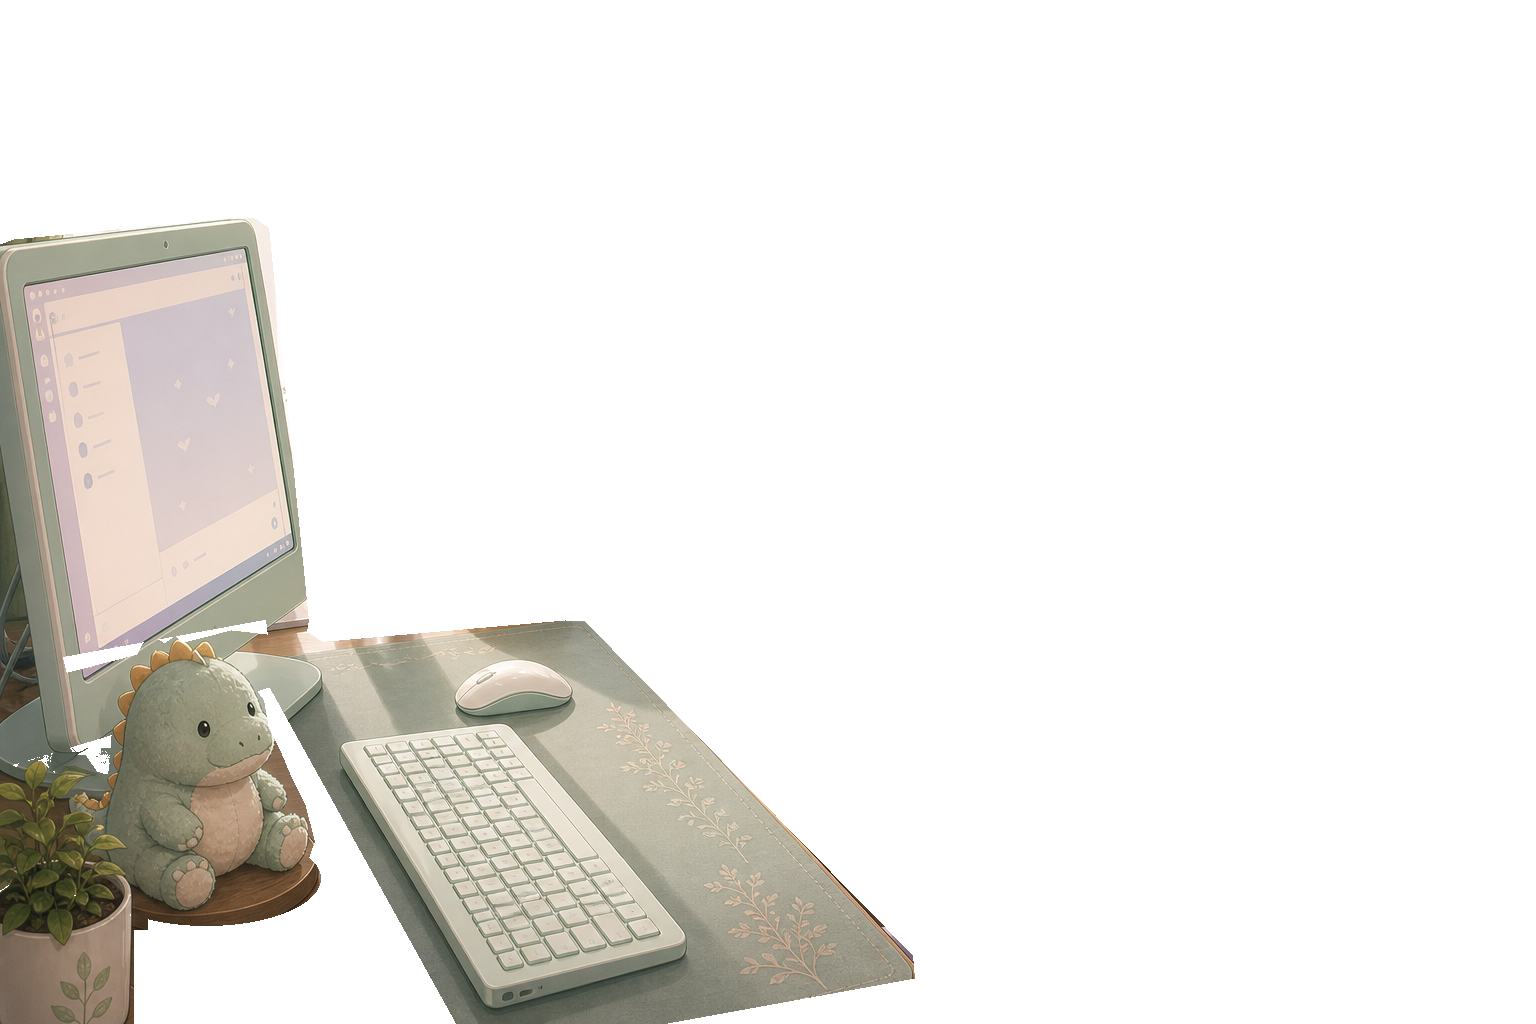
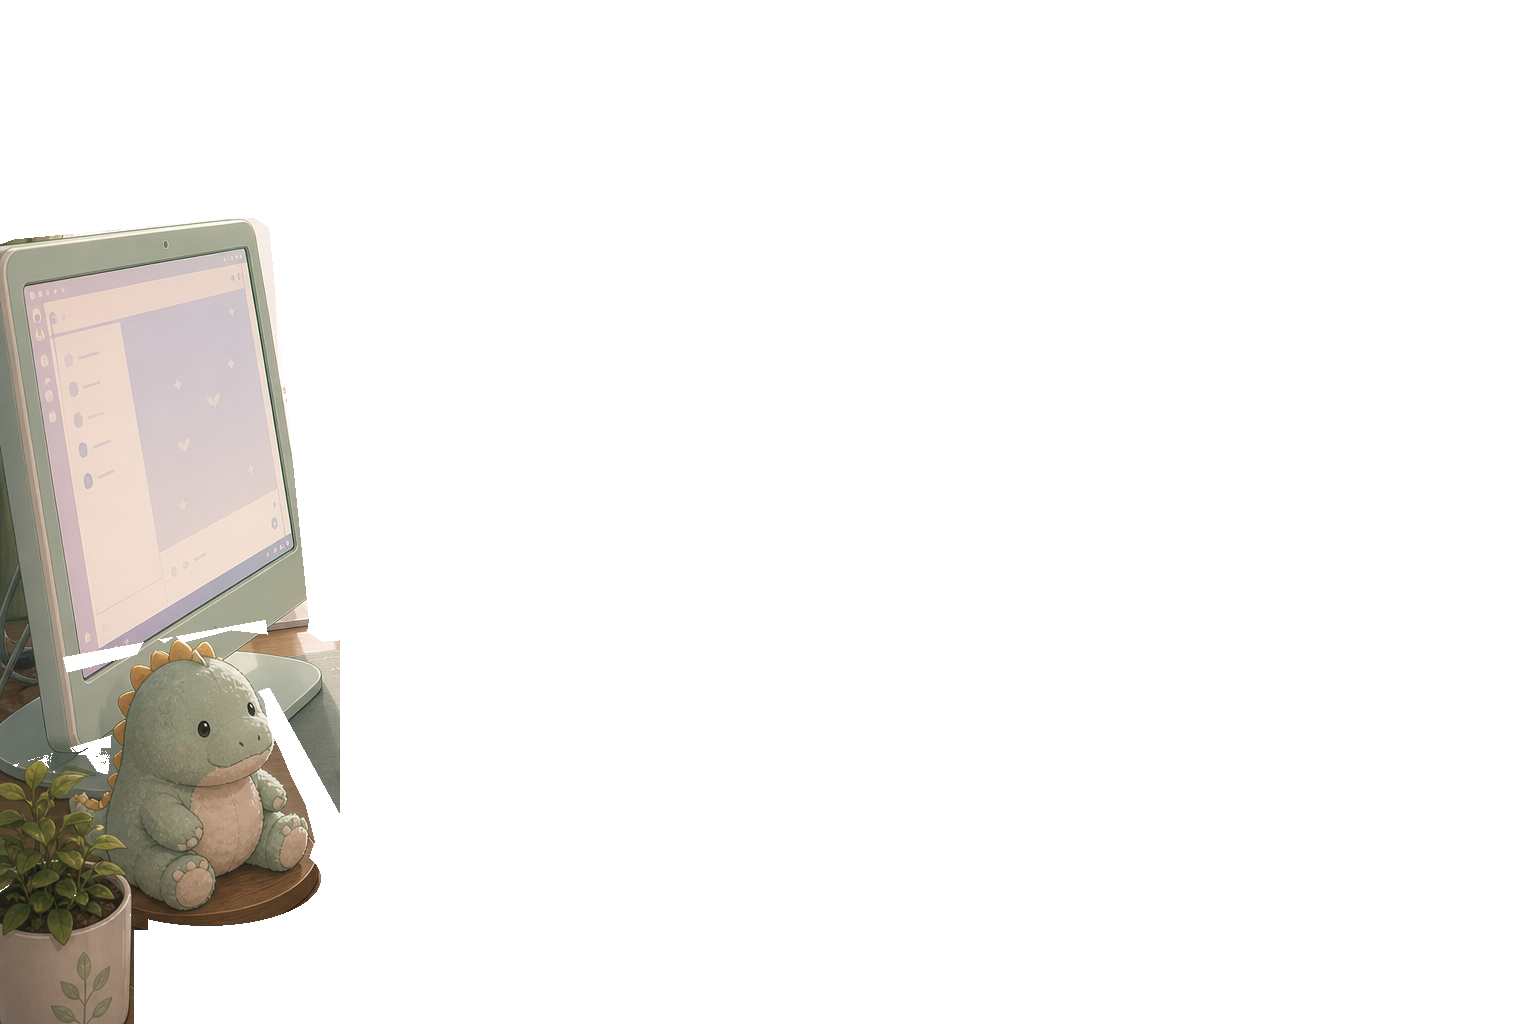
Let her hands rest on the desk instead of behind it
The desk layer needed less in it, not more. The room layer already draws
the mat, keyboard and mouse; having them in the front layer too meant they
were painted over her arms, hiding her hands under the desk she is
supposed to be working at.

desk_front now keeps only what is genuinely nearer the camera than she is
— monitor, plush, corner plant. Everything her hands rest ON is drawn
behind her by the room layer, so her forearms read as lying on the desk.
No seam appears where the content was dropped, because the room layer
holds the identical pixels underneath.

Derived from desk_front_keyed.png: --mode=key then --mode=cutx --x=340.

Changed region(s): [[0.2188, 0.5938, 0.5938, 1.0]]

diff --git a/tools/zh_polish.py b/tools/zh_polish.py
@@ -1,0 +1,97 @@
+# zh_polish.py — 中文润色流水线：用 native 中文模型按《中文风格手册》改稿。
+#
+# 用法（项目根目录）：
+#   润色一段文字:   python tools/zh_polish.py --text "要润色的内容"
+#   润色整个文件:   python tools/zh_polish.py docs/某文档.md
+#   台词模式:       python tools/zh_polish.py --mode dialogue --text "Yua的台词"
+#   换模型:         python tools/zh_polish.py --model MiniMax-M2.7 ...
+#
+# 输出：润色稿 + 逐条改动理由。不直接覆盖原文件——人看过再采纳。
+# 需要 MINIMAX_API_KEY（游戏同款）。
+
+import argparse
+import os
+import re
+import sys
+from pathlib import Path
+
+for stream in (sys.stdout, sys.stderr):
+    try:
+        stream.reconfigure(encoding="utf-8")
+    except Exception:
+        pass
+
+ROOT = Path(__file__).resolve().parent.parent
+sys.path.insert(0, str(ROOT / "tools" / "python_libs"))
+from openai import OpenAI  # noqa: E402
+
+STYLE_GUIDE = (ROOT / "docs" / "Chinese_Style_Guide.md").read_text(encoding="utf-8")
+THINK_RE = re.compile(r"<think>[\s\S]*?</think>\s*", re.IGNORECASE)
+
+PROMPT_DOC = """你是一位以中文为母语的资深文案编辑。下面有一份《风格手册》和一段待润色的文字。
+任务：按手册把文字改得自然、口语顺滑、没有翻译腔，同时**严格保留原意、事实、专有名词和格式结构**
+（Markdown 标记、HTML 标签、{name} 这类占位符一律原样保留）。
+
+输出格式：
+【润色稿】
+（改后的全文）
+【改动清单】
+- 原句 → 改后 ｜ 理由（对应手册哪条）
+（只列有实质改动的，最多 15 条）"""
+
+PROMPT_DIALOGUE = """你是一位以中文为母语的游戏编剧，擅长写年轻女性角色的日常口语台词。
+下面有一份《风格手册》（重点看「Yua 台词专用」一节）和几句待润色的台词。
+任务：让每句话像一个 21 岁、安静但明亮的女孩子当下随口说出来的话。守住手册的硬规矩。
+保留 {name}、{focus_minutes} 等占位符和分行结构。
+
+输出格式：
+【润色稿】
+（改后台词，保持原分行）
+【改动清单】
+- 原句 → 改后 ｜ 理由"""
+
+
+def main() -> None:
+    ap = argparse.ArgumentParser()
+    ap.add_argument("file", nargs="?", help="要润色的文件路径")
+    ap.add_argument("--text", help="直接润色这段文字")
+    ap.add_argument("--mode", choices=["doc", "dialogue"], default="doc")
+    ap.add_argument("--model", default="MiniMax-M3")
+    args = ap.parse_args()
+
+    if args.text:
+        source = args.text
+    elif args.file:
+        source = Path(args.file).read_text(encoding="utf-8")
+    else:
+        print("给我文件路径，或用 --text 直接给文字。")
+        sys.exit(1)
+
+    key = os.environ.get("MINIMAX_API_KEY", "")
+    if not key:
+        print("没找到 MINIMAX_API_KEY。")
+        sys.exit(1)
+    client = OpenAI(api_key=key, base_url="https://api.minimaxi.com/v1")
+
+    task = PROMPT_DIALOGUE if args.mode == "dialogue" else PROMPT_DOC
+    user = f"{task}\n\n=== 风格手册 ===\n{STYLE_GUIDE}\n\n=== 待润色文字 ===\n{source}"
+    # M-series models think at length before answering; a tight budget can end
+    # inside the <think> block and strip to nothing.
+    r = client.chat.completions.create(
+        model=args.model,
+        messages=[{"role": "user", "content": user}],
+        max_tokens=16000,
+    )
+    raw = r.choices[0].message.content or ""
+    out = THINK_RE.sub("", raw).strip()
+    if "<think>" in out:
+        out = out.split("<think>")[0].strip()
+    if not out:
+        print("（模型这次全在思考没给出正文，再跑一次通常就好；finish_reason=%s）"
+              % r.choices[0].finish_reason)
+        sys.exit(2)
+    print(out)
+
+
+if __name__ == "__main__":
+    main()

diff --git a/docs/Chinese_Style_Guide.md b/docs/Chinese_Style_Guide.md
@@ -1,0 +1,54 @@
+# 中文风格手册（2026-08-14）— 所有润色/审校的统一标准
+
+这个文件是「合同」：人写、Claude 写、别的模型润色，最后都拿它当验收标准。
+`tools/zh_polish.py` 每次运行都会把本文件整个喂给润色模型。改这里 = 改整条流水线的口味。
+
+---
+
+## 一、通用规则（文档、卡片文案、UI 文本都适用）
+
+### 翻译腔黑名单（见一个改一个）
+1. **「被」+抽象动作**：「她的文字被使用」→「常客买书就认她写的卡」。真实中文少用被动，
+   多用具体的人做具体的事。
+2. **「进行/作出/加以」+名词**：「进行创作」→「写」。动词直接上。
+3. **「作为 X 的 Y」开头**：「作为店员的她」→「她站在柜台里」。
+4. **名词化堆叠**：「她的努力有了着落」这类「抽象名词+虚动词」，改成看得见的画面：
+   「荐书卡越写越认真」。
+5. **长定语**：「一个叫『杂物』的锁在电脑里的文件夹」→ 拆句：「电脑里有个文件夹，
+   名叫『杂物』。」定语超过 10 个字就拆。
+6. **破折号滥用**：一段最多一处「——」。两个以上说明句子结构该重排了。
+7. **「的」连用**：一句里连着三个「的」就重写。
+8. **欧化比喻**：「剧情的火从这点燃」这种直译腔比喻，要么换成中文里真会说的
+   （「故事就从这儿开头」），要么删。
+
+### 节奏
+- 口语/台词：一拍（一口气读完的单位）不超过 20 字。
+- 文档：一句不超过 40 字；连续三句同结构就变化一下。
+- 读出声测试：任何一句读着喘不上气或者绕口，就是要改的。
+
+### 标点
+- 全角中文标点；省略号统一「……」（六点）；不用「~」卖萌；感叹号一段最多一个。
+
+## 二、Yua 台词专用（叠加在通用规则上）
+
+来自 AI 采样提炼的五手法（写和改都要过这五关）：
+1. **接具体，不接概念**：回应对方话里的具体词（柯基、辣条、三十六度），不说「哈哈是呀」。
+2. **问完给台阶**：每段至多一个问句，问完补一个「不答也行」的软出口。
+3. **世界从缝里漏**：每段至多一两个感官细节（汽笛/拉花/瓜子），是配菜不是主菜。
+4. **两拍幽默**：正经开头 + 歪掉的第二拍。不靠感叹号和语气词硬凑可爱。
+5. **自嘲式撤退**：害羞时预告自己会怂（「说出来我会害羞，然后又把它关掉」），
+   不用省略号硬挡。
+
+硬规矩（persona 同步）：「……」每段至多一次，多数段落一次都不用；不开头就「……」；
+不喊口号（加油/你真棒/我们一起努力）；不说「喜欢/爱/想你」；不输出括号动作。
+
+## 三、文档/给 owner 看的文案专用
+- 读者是非技术者：每个专有名词/人名/梗，**首次出现必须当场解释**（小七教训）。
+- 比喻要落地：写完问一句「中文里真有人这么说吗？」，没有就删。
+- 短段落，一段一个意思；能用具体画面就不用抽象概括。
+
+## 四、流程（谁写都一样）
+1. 起稿（内容和结构对就行，先不追求漂亮）。
+2. `zh_polish.py` 跑一遍 → native 模型按本手册改写 + 列出改动理由。
+3. Claude 复核：只查硬规矩有没有被改坏（persona 红线、事实、术语）。
+4. Owner 只看争议处（工具会标出改动大的句子），不用逐字过。

diff --git a/docs/Yua_World_Components.md b/docs/Yua_World_Components.md
@@ -15,16 +15,16 @@
 的据点。她的活：收银、冲咖啡、上架、**手写荐书卡（POP）**。
 
 **为什么和她严丝合缝：**
-- **最妙也最扎心的设定：** 她每天把别人写完的小说摆上架、替别人的书写漂亮的推荐语——
-  而她自己偷偷写的那本，还锁在电脑里一个叫「杂物」的文件夹里。离梦想最近的工位，
-  也是每天提醒她「你还没写完」的地方。剧情的火从这点燃。
-- **手写荐书卡**（书架上「店员推荐」的小卡片）**是全店的隐藏招牌**：常客买书只认她写的卡，
-  有一张被人拍照发到网上小火过一次，她至今不知道。→ 她的文字每天公开「被使用」，
-  这吸收了原花店弧的功能，而且是日常级。
+- **最妙也最扎心的设定：** 她每天把别人写完的小说摆上架，替人写漂亮的推荐语。
+  可她自己偷偷写的那本，还锁在电脑里。电脑里有个文件夹，名叫「杂物」。
+  这是离她梦想最近的工位，也是每天提醒她「你还没写完」的地方。故事就从这儿开头。
+- **手写荐书卡**（书架上「店员推荐」的小卡片）**早就是全店的隐藏招牌**：常客买书就认
+  她写的卡，有一张被人拍下来发到网上，小火过一阵，她至今不知道。→ 每天都有人在读
+  她写的字，只是没人知道她还在写别的。（吸收了原花店弧的功能，而且是日常级。）
 - **咖啡角的拉花她永远练不好**，失败作品总是神似小七（她周末水族馆兼职的死对头江豚，
   见下节）——仇人跨界追杀到咖啡杯里。
-- **轻赌注**：海边小店生意随渡轮和季节起落，进货单一年比一年薄——轻、真实、不悲情，
-  让她「想把店撑住」的心意有个着落。
+- **轻赌注**：海边小店生意随渡轮和季节起落，进货单一年比一年薄。不悲情，
+  她只是想把店撑住。荐书卡于是越写越认真。
 
 **关键人物提案（等你点头）：店长 = 从大城市退休回乡的前轻小说编辑。**
 毒舌、懒散、看人极准。她不知道他的过去（Ep 中后期揭晓）。这给写作线一个终点站：

diff --git a/Progress.md b/Progress.md
@@ -119,6 +119,16 @@ either. What still does: feel, pacing, animation, audio.
 
 ## Session Log
 
+- **2026-08-14 (Chinese quality pipeline):** Owner flagged persistent awkwardness in my Chinese.
+  Built the systemic fix: `docs/Chinese_Style_Guide.md` (checkable contract — 翻译腔 blacklist,
+  rhythm caps, Yua's five techniques, doc rules incl. "explain every proper noun on first use")
+  + `tools/zh_polish.py` (runs any text/file through native MiniMax-M3 with the guide as rubric;
+  outputs polished text + per-change reasons citing guide rules; 16k token budget because M-series
+  thinks long — empty-output guard added). Demo on the owner-flagged 书咖 paragraph: killed
+  「剧情的火就从这点燃」→「故事就从这儿开头」,「努力有了着落」 nominalization, long attributives
+  split. Polished copy applied to artifact + world doc. New writing flow: Claude drafts content →
+  M3 polishes per guide → Claude re-checks hard rules → owner sees only flagged deltas.
+
 - **2026-08-11 (creative package completed):** Closed the two gaps in
   `Opening_and_Script_Directions.md`: V2「站台与申请季」now has a full line-by-line Ep0–5
   (written against 套餐一 station-town+songwriting so it tastes both the stakes AND an alternate
